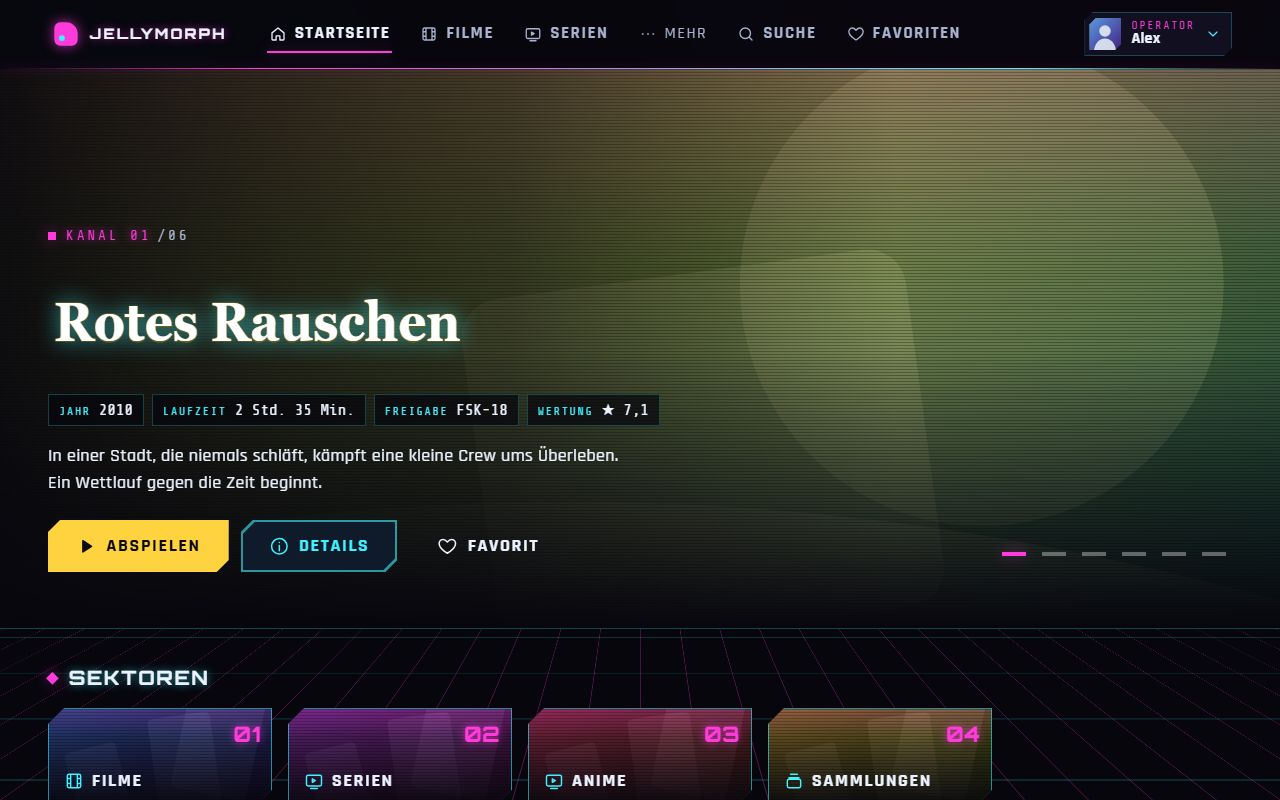
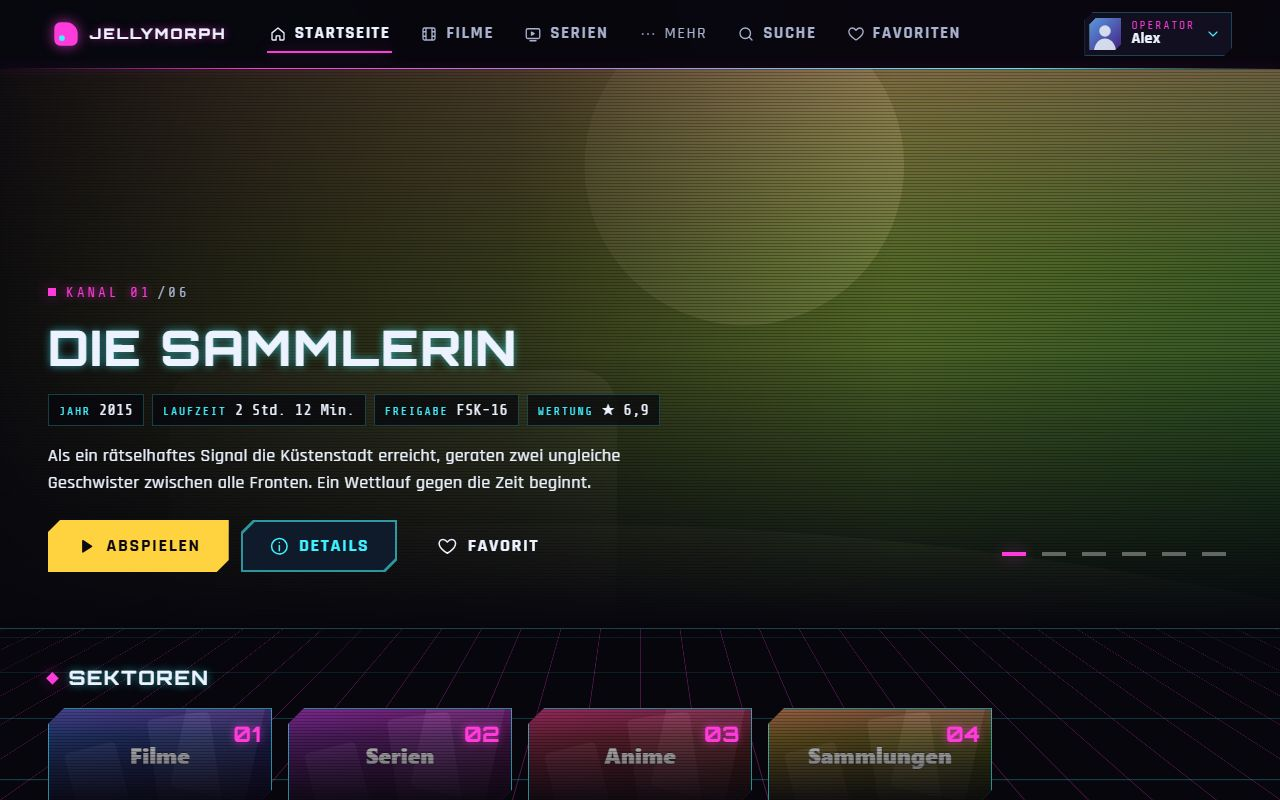
fix: findings from the test against a real Jellyfin server
Jellyfin writes the name into the library pictures it generates, so the
themes no longer lay it over them a second time (screen readers still get
it); the demo's library pictures carry their name the same way. Studios and
directors are shortened like the tracks (ShortList). A jump to a letter puts
its row at the top instead of the bottom edge, and the "More" button stays
highlighted while its menu is open.

diff --git a/src/themes/default/components/Expandable.tsx b/src/themes/default/components/Expandable.tsx
@@ -76,30 +76,30 @@ export function ExpandableText({
 }
 
 /**
- * Sound or subtitle tracks one per line; beyond `limit` the rest opens with "+ n more".
+ * Entries one per line (tracks, studios); beyond `limit` the rest opens with "+ n more".
  */
-export function TrackList({
-  tracks,
+export function ShortList({
+  entries,
   limit = 3,
   classes = {},
 }: {
-  tracks: readonly MediaTrack[];
+  entries: readonly string[];
   limit?: number;
   classes?: ExpandableClasses;
 }) {
   const { t } = useTranslation('content');
   const id = useId();
   const [open, setOpen] = useState(false);
-  const hidden = tracks.length - limit;
-  // One more line costs less room than the button, so a single extra track is just shown.
+  const hidden = entries.length - limit;
+  // One more line costs less room than the button, so a single extra entry is just shown.
   const collapsible = hidden > 1;
-  const shown = collapsible && !open ? tracks.slice(0, limit) : tracks;
+  const shown = collapsible && !open ? entries.slice(0, limit) : entries;
 
   return (
     <div className={styles.root}>
       <ul id={id} className={join(styles.tracks, classes.text)}>
-        {shown.map((track) => (
-          <li key={`${String(track.index)}-${track.title}`}>{track.title}</li>
+        {shown.map((entry, index) => (
+          <li key={`${String(index)}-${entry}`}>{entry}</li>
         ))}
       </ul>
       {collapsible && (
@@ -117,4 +117,17 @@ export function TrackList({
       )}
     </div>
   );
+}
+
+/** Sound or subtitle tracks, three shown, the rest behind "+ n more". */
+export function TrackList({
+  tracks,
+  limit,
+  classes,
+}: {
+  tracks: readonly MediaTrack[];
+  limit?: number;
+  classes?: ExpandableClasses;
+}) {
+  return <ShortList entries={tracks.map((track) => track.title)} limit={limit} classes={classes} />;
 }

diff --git a/src/ui/VirtualGrid.tsx b/src/ui/VirtualGrid.tsx
@@ -12,8 +12,11 @@ import {
 import styles from './VirtualGrid.module.css';
 
 export interface VirtualGridHandle {
-  /** Scrolls the item into view and moves focus into it. */
-  focusIndex: (index: number) => void;
+  /**
+   * Scrolls the item into view and moves focus into it. `start` puts its row at the top (a jump
+   * to a letter); the default scrolls only as far as needed (arrow keys).
+   */
+  focusIndex: (index: number, align?: 'nearest' | 'start') => void;
 }
 
 interface VirtualGridProps {
@@ -116,9 +119,11 @@ export function VirtualGrid({
     // eslint-disable-next-line react-hooks/exhaustive-deps
   }, [resetKey]);
 
-  const focusIndex = (index: number) => {
+  const focusIndex = (index: number, align: 'nearest' | 'start' = 'nearest') => {
     const target = Math.max(0, Math.min(count - 1, index));
-    virtualizer.scrollToIndex(Math.floor(target / columns), { align: 'auto' });
+    virtualizer.scrollToIndex(Math.floor(target / columns), {
+      align: align === 'start' ? 'start' : 'auto',
+    });
     let attempts = 0;
     const tryFocus = () => {
       const cell = containerRef.current?.querySelector<HTMLElement>(
@@ -127,7 +132,8 @@ export function VirtualGrid({
       const focusable = cell?.querySelector<HTMLElement>(FOCUSABLE);
       if (focusable) {
         focusable.focus({ preventScroll: true });
-        focusable.scrollIntoView({ block: 'nearest' });
+        // The cell's scroll margin keeps the row clear of a sticky header.
+        (align === 'start' ? cell : focusable)?.scrollIntoView({ block: align });
       } else if (attempts < 20) {
         attempts += 1;
         requestAnimationFrame(tryFocus);

diff --git a/src/themes/constellation/components/Tiles.tsx b/src/themes/constellation/components/Tiles.tsx
@@ -13,6 +13,8 @@ interface Tile {
   to: string;
   name: string;
   image: ImageRef | null;
+  /** The picture already shows the name (Jellyfin generates library pictures with it). */
+  titled: boolean;
 }
 
 const SKELETON_COUNT = 5;
@@ -42,6 +44,7 @@ export function Tiles({
           to: paths.library(library.id),
           name: library.name,
           image: library.image,
+          titled: library.image !== null,
         }))
       : []),
     ...(collections?.status === 'success'
@@ -50,6 +53,7 @@ export function Tiles({
           to: linkTo(item),
           name: item.name,
           image: item.images.thumb ?? item.images.backdrop ?? item.images.primary,
+          titled: false,
         }))
       : []),
   ];
@@ -69,7 +73,11 @@ export function Tiles({
             ))
           : tiles.map((tile) => (
               <TrackSlot key={tile.id}>
-                <AppLink to={tile.to} className={styles.tile}>
+                <AppLink
+                  to={tile.to}
+                  className={styles.tile}
+                  data-titled={tile.titled || undefined}
+                >
                   <span className={styles.frame} aria-hidden="true">
                     <JellyImage
                       image={tile.image}
@@ -79,7 +87,7 @@ export function Tiles({
                     />
                     <span className={styles.shade} />
                   </span>
-                  <span className={styles.name}>{tile.name}</span>
+                  <span className={tile.titled ? 'visually-hidden' : styles.name}>{tile.name}</span>
                 </AppLink>
               </TrackSlot>
             ))}

diff --git a/src/themes/neon-grid/components/Dossier.tsx b/src/themes/neon-grid/components/Dossier.tsx
@@ -12,7 +12,7 @@ import styles from './Dossier.module.css';
 import type { DataField } from './itemFields';
 import { NeonButton } from './NeonButton';
 import { ScrambleText } from './ScrambleText';
-import { ExpandableText, TrackList } from '../../default/components/Expandable';
+import { ExpandableText, ShortList, TrackList } from '../../default/components/Expandable';
 
 /** "Play", or "Resume from …" plus "Start over" for a started video. */
 export function PlayActions({ item }: { item: Pick<MediaItem, 'id' | 'kind' | 'userData'> }) {
@@ -82,7 +82,7 @@ function useDetailFields(item: ItemDetail): DataField[] {
       ? {
           key: 'director',
           label: t('detail.director', { count: directors.length }),
-          value: directors.join(', '),
+          value: <ShortList entries={directors} />,
         }
       : null,
     item.audioTracks.length > 0
@@ -105,7 +105,11 @@ function useDetailFields(item: ItemDetail): DataField[] {
         }
       : null,
     item.studios.length > 0
-      ? { key: 'studios', label: t('detail.studios'), value: item.studios.join(', ') }
+      ? {
+          key: 'studios',
+          label: t('detail.studios'),
+          value: <ShortList entries={item.studios} />,
+        }
       : null,
   ];
   return fields.filter((field): field is DataField => field !== null);

diff --git a/src/themes/default/components/DetailHeader.tsx b/src/themes/default/components/DetailHeader.tsx
@@ -7,7 +7,7 @@ import { AppLink } from '@/ui/AppLink';
 import { JellyImage } from '@/ui/JellyImage';
 import { formatClock } from '@/ui/time';
 import { Button } from './Button';
-import { ExpandableText, TrackList } from './Expandable';
+import { ExpandableText, ShortList, TrackList } from './Expandable';
 import styles from './DetailHeader.module.css';
 import { Icon } from './icons';
 import { MetaLine } from './MetaLine';
@@ -160,7 +160,9 @@ export function DetailHeader({ item, children }: { item: ItemDetail; children?: 
             {directors.length > 0 && (
               <div>
                 <dt>{t('detail.director', { count: directors.length })}</dt>
-                <dd>{directors.join(', ')}</dd>
+                <dd>
+                  <ShortList entries={directors} />
+                </dd>
               </div>
             )}
             {item.audioTracks.length > 0 && (
@@ -186,7 +188,9 @@ export function DetailHeader({ item, children }: { item: ItemDetail; children?: 
             {item.studios.length > 0 && (
               <div>
                 <dt>{t('detail.studios')}</dt>
-                <dd>{item.studios.join(', ')}</dd>
+                <dd>
+                  <ShortList entries={item.studios} />
+                </dd>
               </div>
             )}
           </dl>

diff --git a/src/themes/glass/components/DetailSections.tsx b/src/themes/glass/components/DetailSections.tsx
@@ -8,7 +8,7 @@ import { ThemeSlot } from '../../ThemeSlot';
 import { Icon } from '../../default/components/icons';
 import { runtimeText } from '../../default/components/meta';
 import styles from './DetailSections.module.css';
-import { TrackList } from '../../default/components/Expandable';
+import { ShortList, TrackList } from '../../default/components/Expandable';
 
 /** Cast and crew as round portraits in a row; each one leads to the person's titles. */
 export function CastShelf({ cast }: { cast: CastMember[] }) {
@@ -84,9 +84,9 @@ export function InfoPanel({ item }: { item: ItemDetail }) {
     [tGlass('detail.rated'), item.officialRating],
     [
       t('detail.director', { count: directors.length }),
-      directors.map((person) => person.name).join(', ') || null,
+      directors.length > 0 ? <ShortList entries={directors.map((person) => person.name)} /> : null,
     ],
-    [t('detail.studios'), item.studios.join(', ') || null],
+    [t('detail.studios'), item.studios.length > 0 ? <ShortList entries={item.studios} /> : null],
     [
       t('detail.audio'),
       item.audioTracks.length > 0 ? <TrackList tracks={item.audioTracks} /> : null,

diff --git a/src/themes/constellation/components/DetailSections.tsx b/src/themes/constellation/components/DetailSections.tsx
@@ -11,7 +11,7 @@ import { runtimeText } from '../../default/components/meta';
 import { EmptyState, ErrorState, LoadingState } from '../../default/components/States';
 import styles from './Detail.module.css';
 import { Track, TrackSlot } from './Track';
-import { TrackList } from '../../default/components/Expandable';
+import { ShortList, TrackList } from '../../default/components/Expandable';
 
 /** A titled part of a details page; `tools` stand next to the title (the season choice). */
 function Section({
@@ -219,9 +219,9 @@ export function DetailsSection({ item }: { item: ItemDetail }) {
     [tTheme('detail.rated'), item.officialRating],
     [
       t('detail.director', { count: directors.length }),
-      directors.map((person) => person.name).join(', ') || null,
+      directors.length > 0 ? <ShortList entries={directors.map((person) => person.name)} /> : null,
     ],
-    [t('detail.studios'), item.studios.join(', ') || null],
+    [t('detail.studios'), item.studios.length > 0 ? <ShortList entries={item.studios} /> : null],
     [
       t('detail.audio'),
       item.audioTracks.length > 0 ? <TrackList tracks={item.audioTracks} /> : null,

diff --git a/src/mocks/images.ts b/src/mocks/images.ts
@@ -15,7 +15,12 @@ export function avatarSvg(hue: number): string {
 }
 
 /** Abstract artwork; the library name is shown by the UI, so the image carries no text. */
-export function libraryArtSvg(hue: number): string {
+function xmlText(text: string): string {
+  return text.replace(/&/g, '&amp;').replace(/</g, '&lt;').replace(/>/g, '&gt;');
+}
+
+/** A library picture: shapes in the library's hue and its name, as Jellyfin generates them. */
+export function libraryArtSvg(hue: number, name: string): string {
   return `<svg xmlns="http://www.w3.org/2000/svg" viewBox="0 0 640 360">
   <defs>
     <linearGradient id="bg" x1="0" y1="0" x2="1" y2="1">
@@ -29,6 +34,7 @@ export function libraryArtSvg(hue: number): string {
     <rect x="300" y="60" width="180" height="270" rx="16" transform="rotate(-8 390 195)"/>
     <rect x="70" y="150" width="150" height="225" rx="14" transform="rotate(-14 145 262)"/>
   </g>
+  <text x="320" y="200" text-anchor="middle" font-family="system-ui, 'Segoe UI', sans-serif" font-size="64" font-weight="800" fill="#ffffff" stroke="rgb(0 0 0 / 40%)" stroke-width="3" paint-order="stroke">${xmlText(name)}</text>
 </svg>`;
 }
 

diff --git a/src/themes/horizon/components/DetailTabs.tsx b/src/themes/horizon/components/DetailTabs.tsx
@@ -7,7 +7,7 @@ import { useThemeComponent } from '../../context';
 import { runtimeText } from '../../default/components/meta';
 import { EmptyState, ErrorState, LoadingState } from '../../default/components/States';
 import styles from './Detail.module.css';
-import { TrackList } from '../../default/components/Expandable';
+import { ShortList, TrackList } from '../../default/components/Expandable';
 
 export interface DetailTab {
   id: string;
@@ -122,9 +122,9 @@ export function DetailsPanel({ item }: { item: ItemDetail }) {
     [tHorizon('detail.rated'), item.officialRating],
     [
       t('detail.director', { count: directors.length }),
-      directors.map((person) => person.name).join(', ') || null,
+      directors.length > 0 ? <ShortList entries={directors.map((person) => person.name)} /> : null,
     ],
-    [t('detail.studios'), item.studios.join(', ') || null],
+    [t('detail.studios'), item.studios.length > 0 ? <ShortList entries={item.studios} /> : null],
     [
       t('detail.audio'),
       item.audioTracks.length > 0 ? <TrackList tracks={item.audioTracks} /> : null,

diff --git a/src/themes/crimson/components/DetailHeader.tsx b/src/themes/crimson/components/DetailHeader.tsx
@@ -10,7 +10,7 @@ import { Icon } from '../../default/components/icons';
 import { episodeCode, ratingText, runtimeText, yearText } from '../../default/components/meta';
 import { CrimsonButton } from './CrimsonButton';
 import styles from './DetailHeader.module.css';
-import { ExpandableText, TrackList } from '../../default/components/Expandable';
+import { ExpandableText, ShortList, TrackList } from '../../default/components/Expandable';
 
 /** "Play" or "Resume", plus "Start over" for a started video. */
 function PlayButtons({ item }: { item: Pick<MediaItem, 'id' | 'kind' | 'userData'> }) {
@@ -193,7 +193,9 @@ export function DetailHeader({
           {directors.length > 0 && (
             <div>
               <dt>{tCrimson('detail.director')}</dt>
-              <dd>{directors.map((person) => person.name).join(', ')}</dd>
+              <dd>
+                <ShortList entries={directors.map((person) => person.name)} />
+              </dd>
             </div>
           )}
           {item.audioTracks.length > 0 && (

diff --git a/src/themes/default/components/OverflowNav.tsx b/src/themes/default/components/OverflowNav.tsx
@@ -10,7 +10,7 @@ import styles from './OverflowNav.module.css';
 export interface OverflowNavClasses {
   list?: string;
   more?: string;
-  /** On the button while the current page is one of the folded-away entries. */
+  /** On the button while its menu is open or the current page is one of the folded-away entries. */
   moreActive?: string;
   panel?: string;
   link?: string;
@@ -148,7 +148,7 @@ export function OverflowNav({
         type="button"
         className={[
           classes.more,
-          folded.some((item) => current(pathname, item)) && classes.moreActive,
+          (open || folded.some((item) => current(pathname, item))) && classes.moreActive,
         ]
           .filter(Boolean)
           .join(' ')}

diff --git a/src/themes/neon-grid/components/HomePage.tsx b/src/themes/neon-grid/components/HomePage.tsx
@@ -70,7 +70,8 @@ function Sectors({ libraries }: { libraries: QueryResult<Library[]> }) {
                   <span className={styles.sectorNumber} aria-hidden="true">
                     {String(index + 1).padStart(2, '0')}
                   </span>
-                  <span className={styles.sectorLabel}>
+                  {/* Jellyfin draws the name into the library pictures it generates; it is not laid over them again. */}
+                  <span className={library.image ? 'visually-hidden' : styles.sectorLabel}>
                     <Icon name={KIND_ICONS[library.kind]} />
                     <span>{library.name}</span>
                     {tCommon(`home.kinds.${library.kind}`) !== library.name && (
